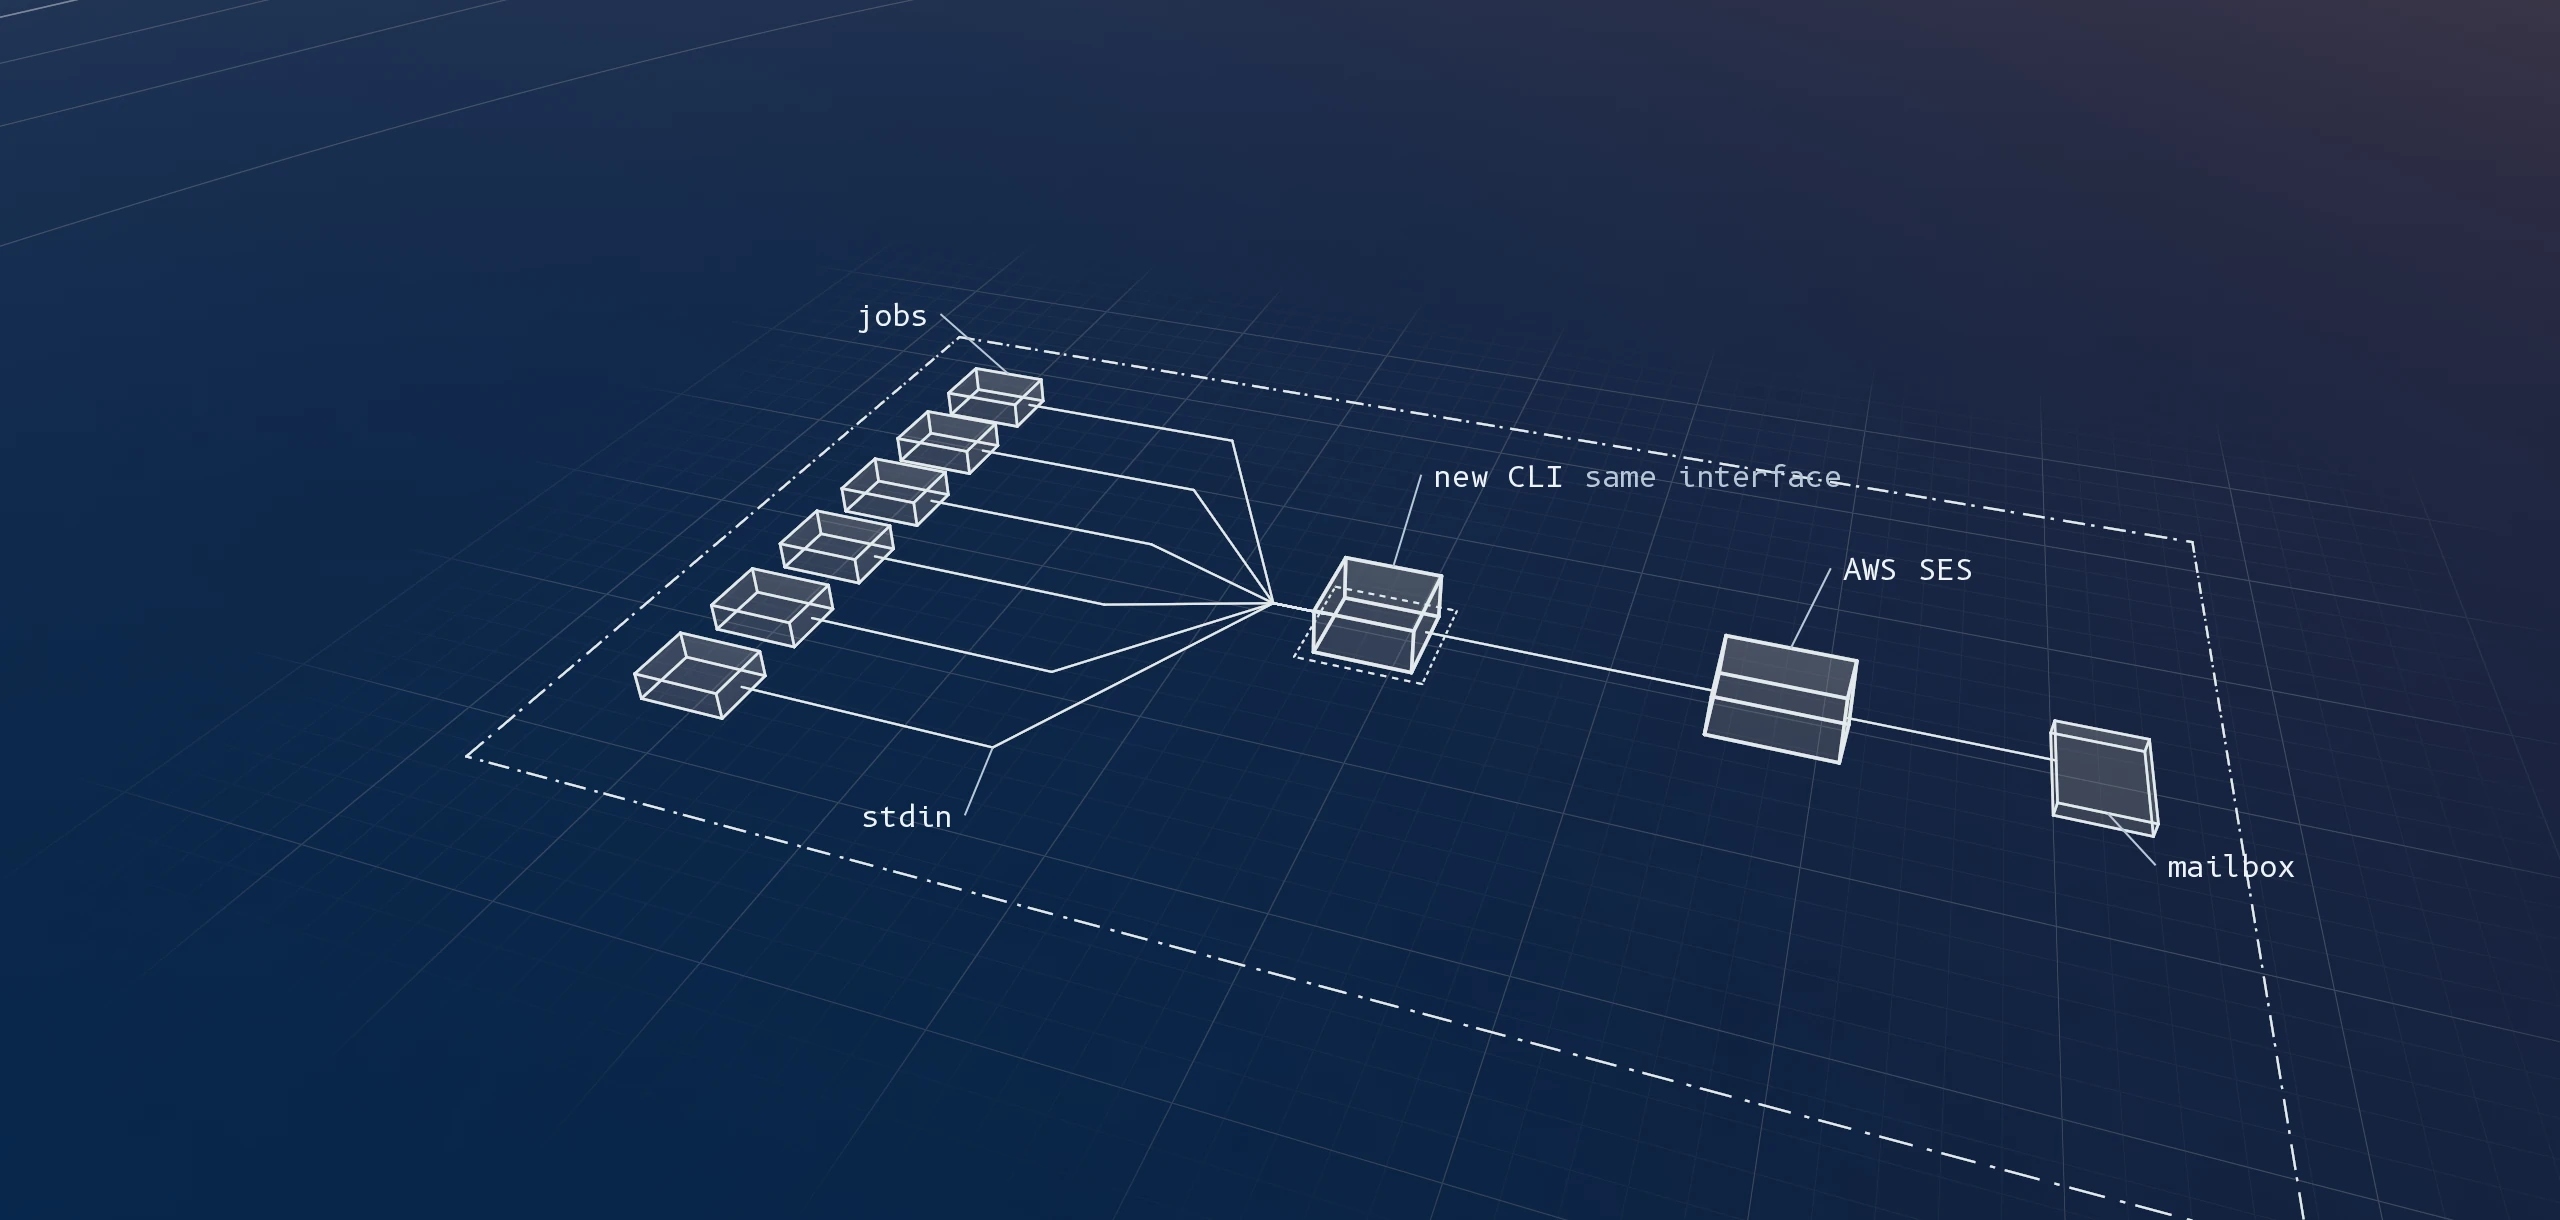
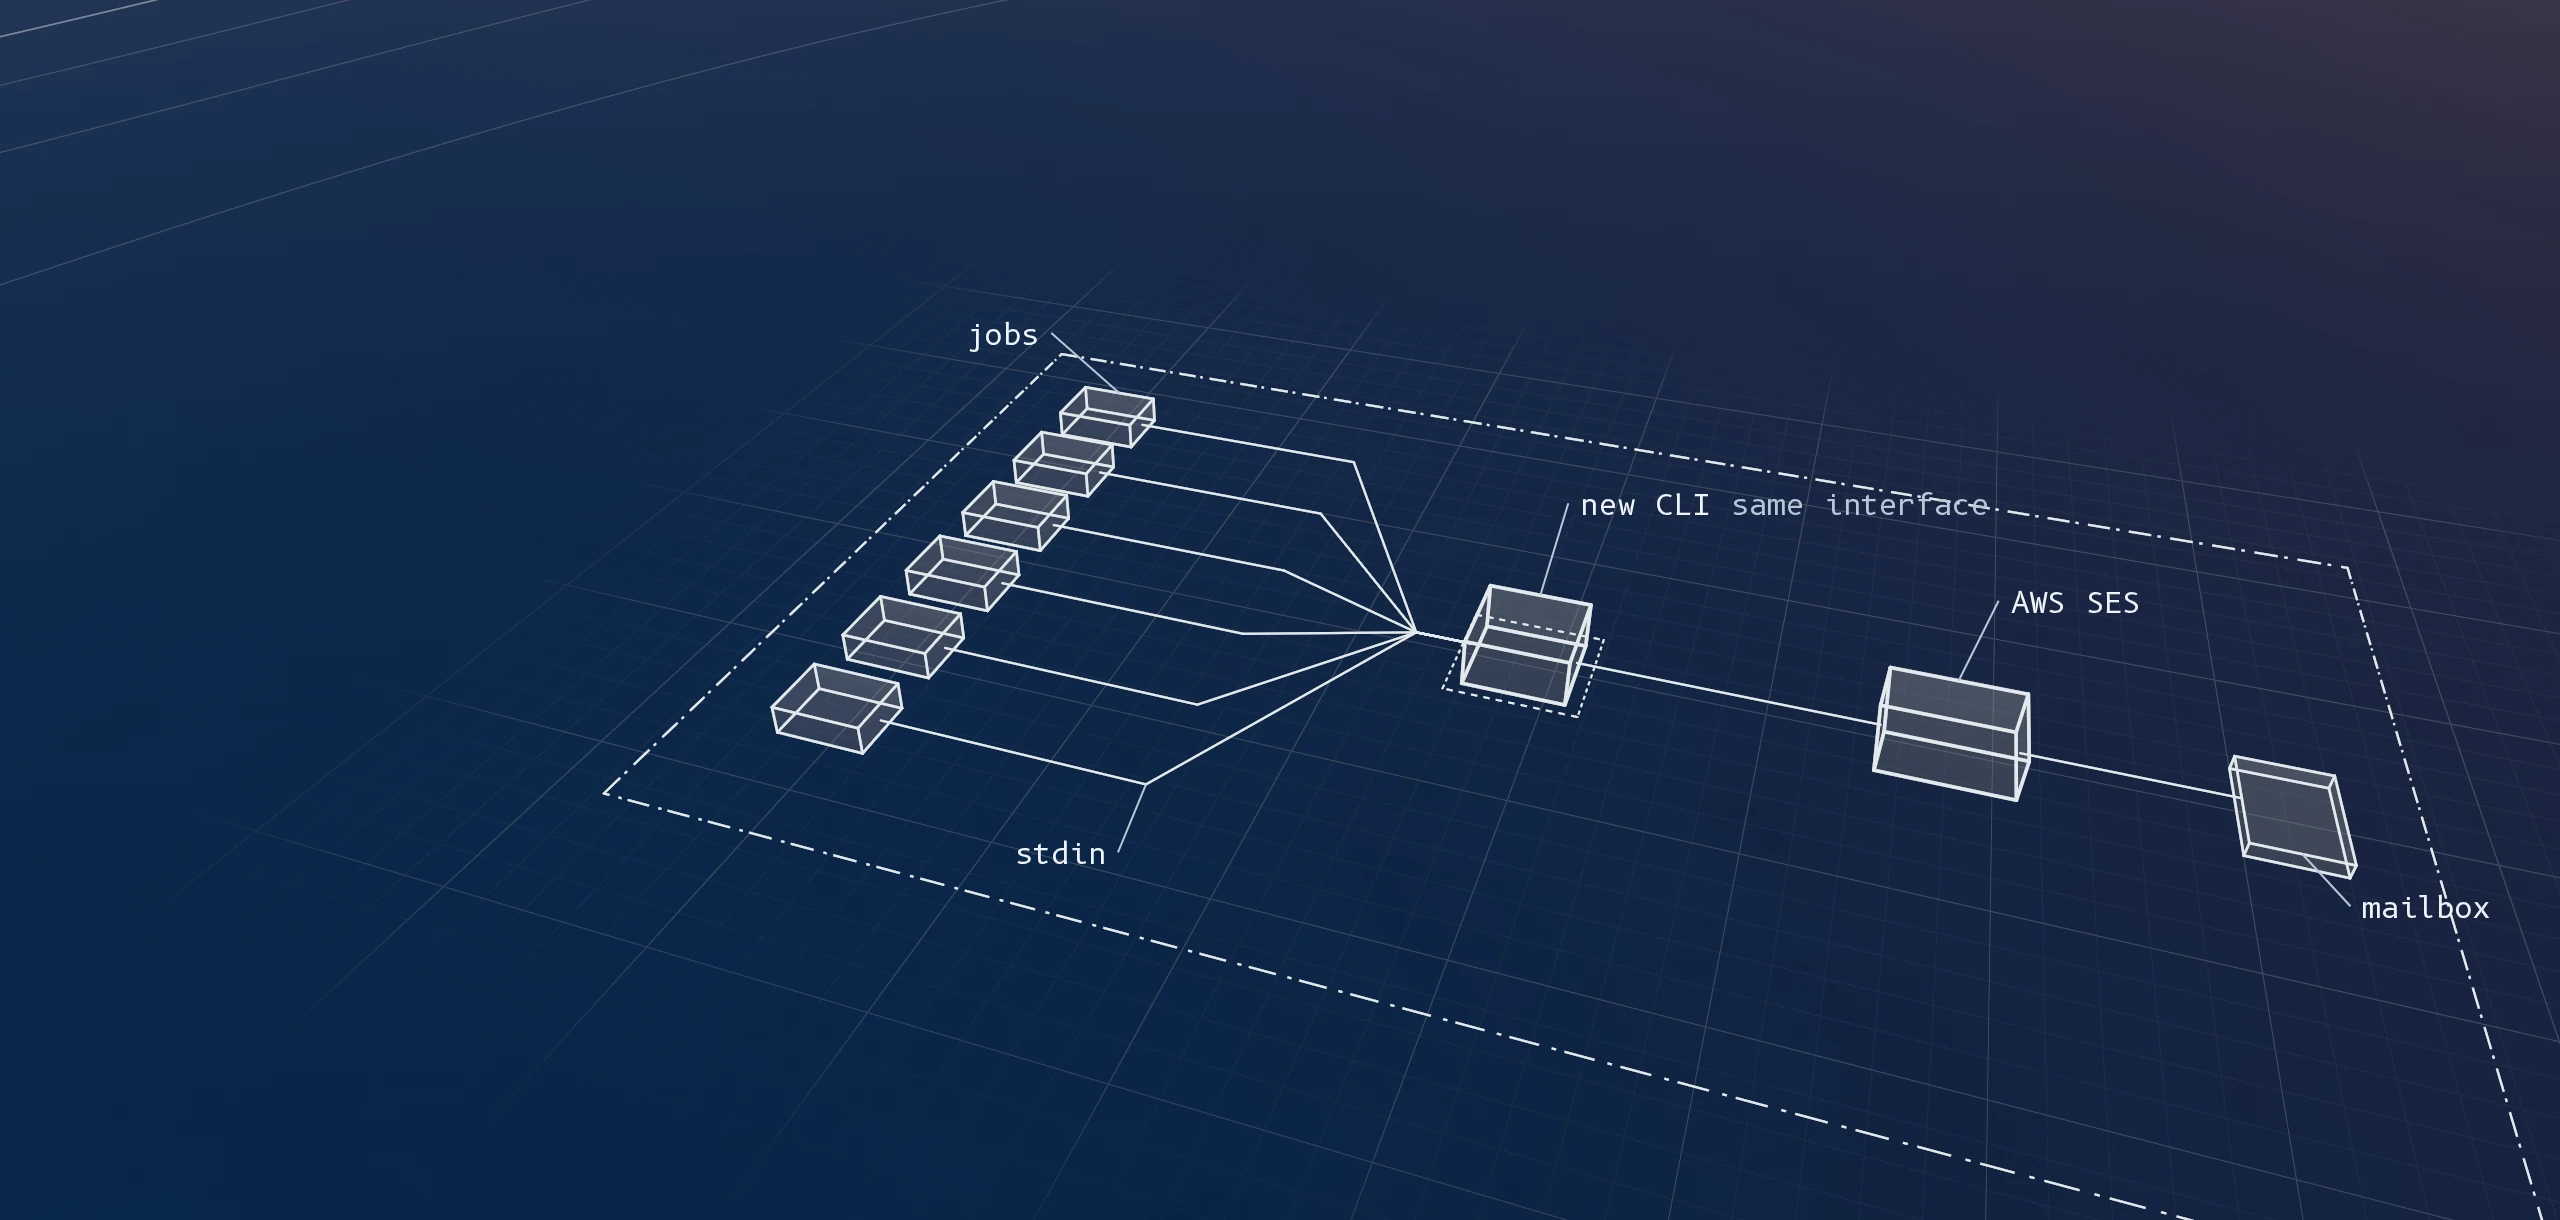
Frame the sendmail drawing right of the copy, and preload the hero sky at default priority so the name paints first

diff --git a/src/altitude/scenes/catalogue.ts b/src/altitude/scenes/catalogue.ts
@@ -42,7 +42,7 @@ export const VIEWS = {
   'alert-payload-reduction': orbit([0, 8, 2], 320),
   'karpenter-autoscaling': orbit([0, 4, -12], 380),
   'jarvis-slack-ops': orbit([6, 6, 12], 350),
-  'sendmail-ses-cli': orbit([2, 6, 0], 330),
+  'sendmail-ses-cli': orbit([-28, 6, 0], 330),
 } satisfies Record<string, SceneView>;
 
 const alt = (slug: string) => FEATURED.find((f) => f.slug === slug)?.alt ?? '';
